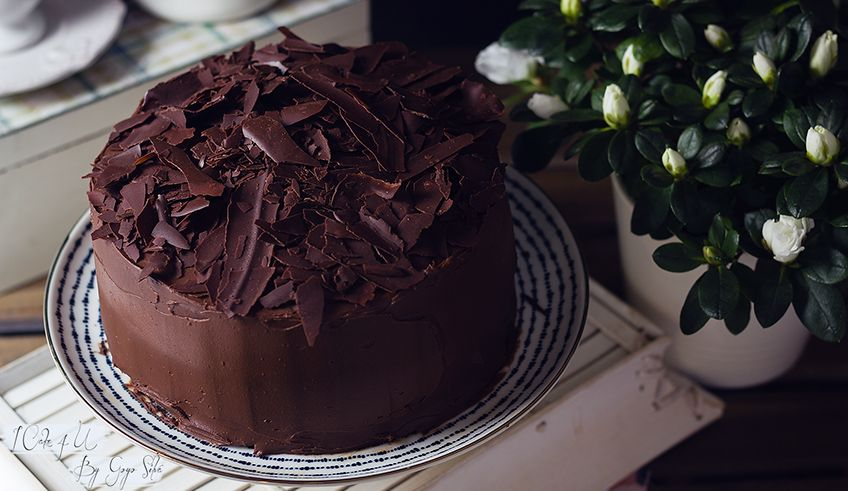
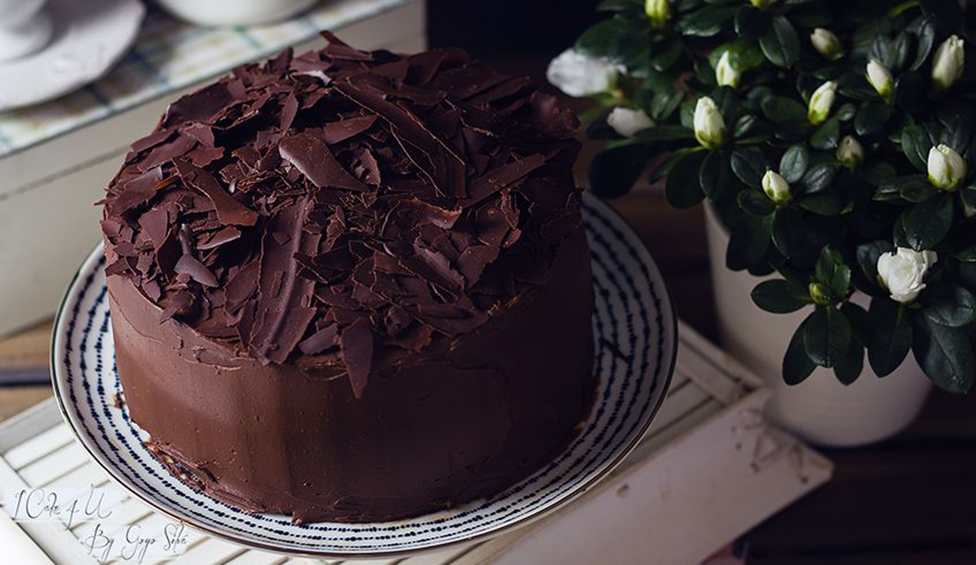
proyecto

diff --git a/SASS/_nosotros.scss b/SASS/_nosotros.scss
@@ -1,59 +1,59 @@
 .nosotros__h1 {
-    padding: 20px;
-    font-size: 35px;
-    text-align: center;
-    font-family: Cambria, Cochin, Georgia, Times, 'Times New Roman', serif;
-    color: #64707c; 
-    .class-h2 {
-        padding: 30px;
-        font-size: 35px;
-        text-align: center;
-        font-family: Cambria, Cochin, Georgia, Times, 'Times New Roman', serif;
-        color: #d41d1d; 
-        .info__h3 {
-            padding: 100px;
-            font-size: 35px;
-            color: #9b9797;
-            font-family: Cambria, Cochin, Georgia, Times, 'Times New Roman', serif;
-            text-align: center;
-            text-align: justify;
-            animation-duration: 3s;
-            animation-name: animacion4; 
-            @keyframes animacion4 {
-                from {
-                  margin-left: 100%;
-                  width: 300%; }
-                to {
-                  margin-left: 0%;
-                  width: 100%; } }
-                  .parrafo {
-                    padding: 50px;
-                    color: #d41d1d;
-                    font-size: 35px;
-                    text-align: center;
-                    margin: auto;
-                    display: block;
-                    position: relative;
-                    bottom: 50px;
-                    font-family: Cambria, Cochin, Georgia, Times, 'Times New Roman', serif;
-                    .class__p {
-                        color: #d41d1d;
-                        font-size: 35px;
-                        font-family: Cambria, Cochin, Georgia, Times, 'Times New Roman', serif;
-                        text-align: center;
-                        position: relative;
-                        bottom: 75px; 
-                        @media (max-width: 576px) {
-                            .info__h3 {
-                              font-size: 23px; } }
-                    }
-                }
-                  
-        }
-    }
-      
+  padding: 20px;
+  font-size: 35px;
+  text-align: center;
+  font-family: Cambria, Cochin, Georgia, Times, 'Times New Roman', serif;
+  color: #64707c;
 }
-  
-  
-  
-  
+
+.class-h2 {
+  padding: 30px;
+  font-size: 35px;
+  text-align: center;
+  font-family: Cambria, Cochin, Georgia, Times, 'Times New Roman', serif;
+  color: #d41d1d;
+}
+
+.info__h3 {
+  padding: 100px;
+  font-size: 35px;
+  color: #9b9797;
+  font-family: Cambria, Cochin, Georgia, Times, 'Times New Roman', serif;
+  text-align: center;
+  text-align: justify;
+  animation-duration: 3s;
+  animation-name: animacion4;
+}
+
+@keyframes animacion4 {
+  from {
+    margin-left: 100%;
+    width: 300%;
+  }
+
+  to {
+    margin-left: 0%;
+    width: 100%;
+  }
+}
+
+.parrafo {
+  padding: 50px;
+  color: #d41d1d;
+  font-size: 35px;
+  text-align: center;
+  margin: auto;
+  display: block;
+  position: relative;
+  bottom: 50px;
+  font-family: Cambria, Cochin, Georgia, Times, 'Times New Roman', serif;
+}
+
+.class__p {
+  color: #d41d1d;
+  font-size: 35px;
+  font-family: Cambria, Cochin, Georgia, Times, 'Times New Roman', serif;
+  text-align: center;
+  position: relative;
+  bottom: 75px;
+}

diff --git a/estilos/estilos.css b/estilos/estilos.css
@@ -345,7 +345,7 @@ footer {
   width: 20%;
   height: 150px;
   border-radius: 20px;
-  margin-left: 47.5rem;
+  margin-left: 47.8rem;
   position: relative;
   top: 40px; 
 }
@@ -387,24 +387,46 @@ footer {
   .form {
     padding: 50px;
     margin-left: 50px; }
+
+    
+
+    .nombre{
+
+      margin-right: 2.5rem;
+
+    }
+
+    .apellido{
+
+      margin-right: 2.5rem;
+
+    }
+    
+    .email{
+
+
+      margin-right: 2.5rem;
+
+    }
+
   .titulo {
     position: relative;
     top: 20px;
-    margin-left: 80px;
+    margin-left: 50px;
     padding: 45px;
     color: #64707c; }
 
   .caja{
     background-color: #dfd0d2;
     margin-top: 30px;
-    margin-left: 120px;
+    margin-left: 80px;
     border-radius: 25px;
-    width: 200px;
+    width: 55%;
   }
 
   .mensaje{
     width: 180px;
-    margin-left: 125px;
+    margin-left: 100px;
 
   }
 
@@ -615,10 +637,9 @@ footer {
     margin-left: 50px;
     animation-duration: 3s;
     animation-name: animacion2;
-    transition-property: background;
+   
     transition-duration: infinite; }
-  .titulos__torta1:hover {
-    background: #c1abcc; }
+  
   @keyframes animacion2 {
     from {
       margin-left: 100%;

diff --git a/secciones/ofertas.html b/secciones/ofertas.html
@@ -46,7 +46,7 @@
       </div>
       <div class="carousel-inner">
         <div class="carousel-item active">
-          <img src="../imagenes/torta de chocolate.jpg" class="d-block w-100" alt="...">
+          <img src="../imagenes/torta chocolate-1.jpg" class="d-block w-100" alt="...">
         </div>
         <div class="carousel-item">
           <img src="../imagenes/torta casamiento rustica selvatica.jpg" class="d-block w-100" alt="...">

diff --git a/index.html b/index.html
@@ -105,7 +105,7 @@
         <p>Av.Cerviño 3379</p>
         <p>ElSurPalermo@gmail.com</p>
 
-        <p>Seguinos en nuestras <b>redes</b></p>
+        <p>Seguinos en nuestras redes</p>
         <a href="Facebook.com/ElSur" class="redes__facebook">Facebook</a>
         <a href="Instagram.com/ElSur" class="redes__instagram">Instagram</a>
         <a href="Twitter.com/ElSur" class="redes__twitter">Twitter</a>

diff --git a/SASS/_contacto.scss b/SASS/_contacto.scss
@@ -7,6 +7,24 @@
 
 .form {
 
+    .nombre {
+
+        margin-right: 2.5rem;
+
+    }
+
+    .apellido {
+
+        margin-right: 2.5rem;
+
+    }
+
+    .email {
+
+
+        margin-right: 2.5rem;
+
+    }
 
     .nombre {
 

diff --git a/SASS/style.scss b/SASS/style.scss
@@ -4,7 +4,6 @@
 @import "ofertas";
 @import "productos";
 @import "general";
-@import "animacionproductos";
 @import "nav";
 
 
